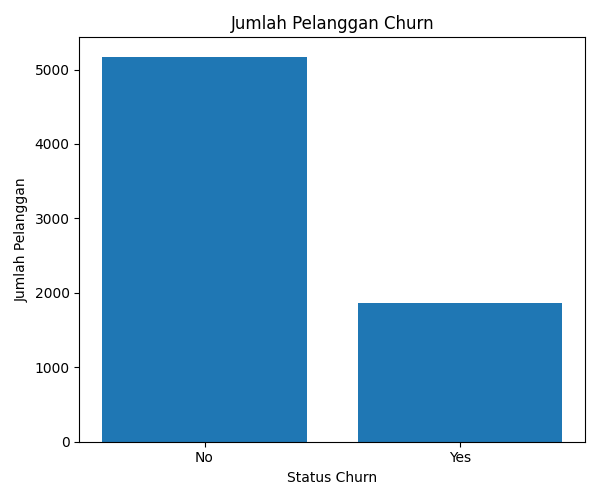
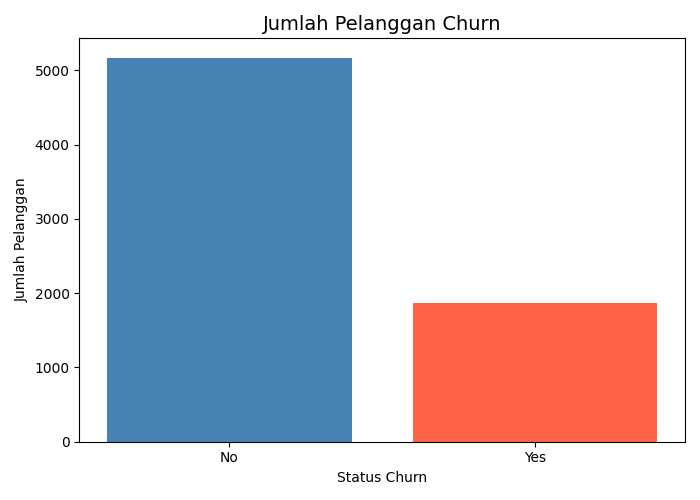
new

diff --git a/utils.py b/utils.py
@@ -1,5 +1,4 @@
 import pandas as pd 
-import numpy as np 
 import matplotlib.pyplot as plt
 
 def load_data(file_path):
@@ -9,9 +8,9 @@ def load_data(file_path):
 
     df = pd.read_csv(file_path)
 
-    print("=" * 60)
+    print("=" * 30)
     print("DATASET BERHASIL DIMUAT")
-    print("=" * 60)
+    print("=" * 30)
 
     print("\n5 Data Pertama")
     print(df.head())
@@ -24,9 +23,9 @@ def check_data(df):
     Menampilkan informasi dataset.
     """
 
-    print("\n" + "=" * 60)
+    print("\n" + "=" * 30)
     print("INFORMASI DATASET")
-    print("=" * 60)
+    print("=" * 30)
 
     print(df.info())
 
@@ -35,11 +34,9 @@ def check_data(df):
     print(f"Jumlah Kolom  : {df.shape[1]}")
 
     print("\nMissing Value")
-
     print(df.isnull().sum())
 
     print("\nJumlah Data Duplikat")
-
     print(df.duplicated().sum())
 
 def clean_data(df):
@@ -49,6 +46,8 @@ def clean_data(df):
 
     # Mengganti spasi kosong menjadi NaN
     df["TotalCharges"] = df["TotalCharges"].replace(" ", pd.NA)
+
+    print(df.isnull().sum())
 
     # Mengubah TotalCharges menjadi numerik
     df["TotalCharges"] = pd.to_numeric(
@@ -71,9 +70,9 @@ def statistics_summary(df):
     Menampilkan statistik dasar.
     """
 
-    print("\n" + "=" * 60)
+    print("\n" + "=" * 30)
     print("STATISTIK DATA")
-    print("=" * 60)
+    print("=" * 30)
 
     print(df.describe())
 
@@ -127,83 +126,73 @@ def bar_chart(df):
 
     churn = df["Churn"].value_counts()
 
-    plt.figure(figsize=(6,5))
+    plt.figure(figsize=(7,5))
 
     plt.bar(
         churn.index,
-        churn.values
+        churn.values,
+        color=["steelblue", "tomato"]
     )
 
-    plt.title("Jumlah Pelanggan Churn")
+    plt.title("Jumlah Pelanggan Churn", fontsize=14)
     plt.xlabel("Status Churn")
     plt.ylabel("Jumlah Pelanggan")
 
     plt.tight_layout()
-
     plt.savefig("grafik_bar_churn.png")
-
     plt.show()
 
-def scatter_plot(df):
-    """
-    Scatter Plot antara Tenure dan Monthly Charges.
-    """
+def bar_chart(df):
+    contract = df["Contract"].value_counts()
 
-    plt.figure(figsize=(8,6))
+    plt.figure(figsize=(7,5))
 
-    plt.scatter(
-        df["tenure"],
-        df["MonthlyCharges"],
-        alpha=0.4,      # membuat titik transparan
-        s=15            # ukuran titik lebih kecil
+    plt.bar(contract.index, contract.values)
+
+    plt.title("Jumlah Pelanggan Berdasarkan Jenis Kontrak")
+    plt.xlabel("Jenis Kontrak")
+    plt.ylabel("Jumlah Pelanggan")
+
+    plt.tight_layout()
+    plt.savefig("grafik_bar_contract.png")
+    plt.show()
+
+def boxplot(df):
+    """Membuat Boxplot MonthlyCharges berdasarkan Churn"""
+    plt.figure(figsize=(7,5))
+
+    plt.boxplot(
+    [
+        df[df["Churn"]=="No"]["MonthlyCharges"],
+        df[df["Churn"]=="Yes"]["MonthlyCharges"]
+    ],
+    tick_labels=["No","Yes"] 
     )
-
-    plt.title("Hubungan Tenure dengan Monthly Charges")
-
-    plt.xlabel("Tenure (Bulan)")
-
+    
+    plt.title("Monthly Charges Berdasarkan Churn")
+    plt.xlabel("Status Churn")
     plt.ylabel("Monthly Charges")
 
-    plt.grid(True)
-
     plt.tight_layout()
 
-    plt.savefig("grafik_scatter.png")
-
+    plt.savefig("grafik_boxplot.png")
     plt.show()
 
-def correlation_heatmap(df):
-    """
-    Membuat Heatmap Korelasi.
-    """
+def histogram(df):
 
-    corr = df.corr(numeric_only=True)
+    plt.figure(figsize=(8,5))
 
-    plt.figure(figsize=(12,8))
-
-    plt.imshow(
-        corr,
-        cmap="coolwarm",
-        interpolation="nearest"
+    plt.hist(
+        df["MonthlyCharges"],
+        bins=15,
+        edgecolor="white"
     )
 
-    plt.colorbar()
+    plt.title("Distribusi Monthly Charges")
+    plt.xlabel("Monthly Charges")
+    plt.ylabel("Jumlah Pelanggan")
 
-    plt.xticks(
-        range(len(corr.columns)),
-        corr.columns,
-        rotation=90
-    )
-
-    plt.yticks(
-        range(len(corr.columns)),
-        corr.columns
-    )
-
-    plt.title("Heatmap Korelasi")
-
+    plt.grid(axis="y", linestyle="--", alpha=0.5)
     plt.tight_layout()
-
-    plt.savefig("grafik_heatmap.png")
-
+    plt.savefig("grafik_histogram.png")
     plt.show()

diff --git a/main.py b/main.py
@@ -5,8 +5,8 @@ from utils import (
     statistics_summary,
     save_summary_to_txt,
     bar_chart,
-    scatter_plot,
-    correlation_heatmap
+    boxplot,
+    histogram
 )
 
 
@@ -31,16 +31,17 @@ def main():
 
     # Visualisasi
     bar_chart(df)
-    scatter_plot(df)
-    correlation_heatmap(df)
+    boxplot(df)
+    histogram(df)
 
     print("\n" + "=" * 60)
     print("SEMUA PROSES BERHASIL DIJALANKAN")
     print("Output yang dihasilkan:")
     print("- hasil_analisis.txt")
     print("- grafik_bar_churn.png")
-    print("- grafik_scatter.png")
-    print("- grafik_heatmap.png")
+    print("- grafik_bar_contract.png")
+    print("- grafik_boxplot.png")
+    print("- grafik_histogram.png")
     print("=" * 60)
 
 